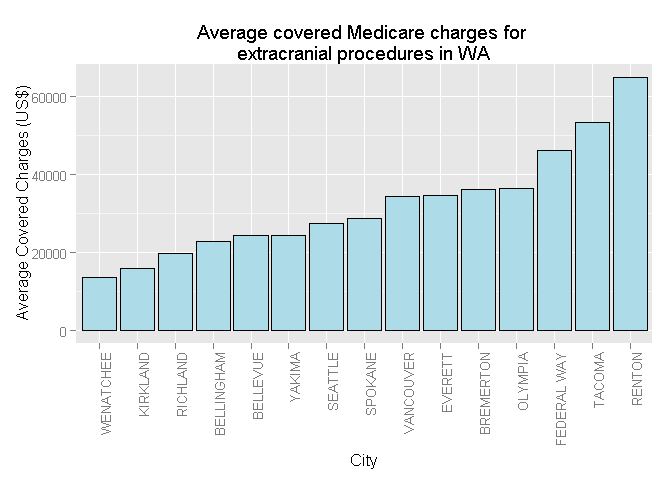
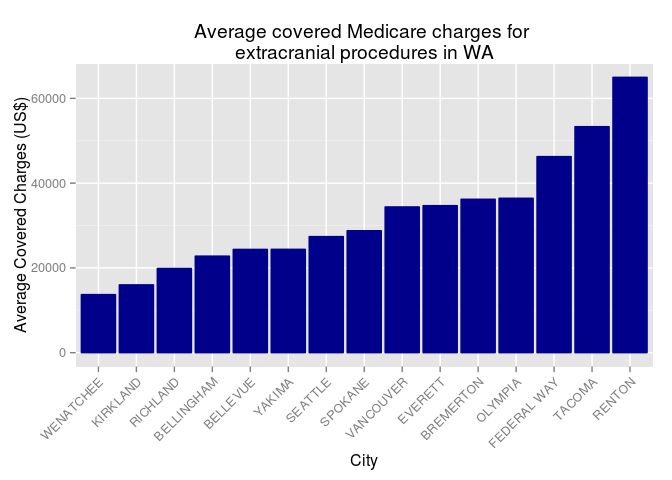
Modified plot to match data.cms.gov and also set knitr not to cache.

diff --git a/medicare-ipps-download.md b/medicare-ipps-download.md
@@ -67,7 +67,7 @@ invisible(suppressMessages(suppressWarnings(lapply(pkgs, require, character.only
 
 
 ```r
-opts_chunk$set(tidy=FALSE, cache=TRUE)
+opts_chunk$set(tidy=FALSE, cache=FALSE)
 ```
 
 Download the Data
@@ -267,8 +267,8 @@ Finally, create a bar plot with `ggplot`.
 
 ```r
 ggplot(ipps, aes(x=City, y=Average.Charge)) +
-    geom_bar(stat="identity", colour="black", fill="lightblue") +  
-    theme(axis.text.x = element_text(angle = 90, hjust = 1)) + 
+    geom_bar(stat="identity", colour="darkblue", fill="darkblue") +  
+    theme(axis.text.x = element_text(angle = 45, hjust = 1)) + 
     ggtitle("Average covered Medicare charges for \nextracranial procedures in WA") +
     labs(x="City", y="Average Covered Charges (US$)")
 ```

diff --git a/medicare-ipps.md b/medicare-ipps.md
@@ -84,7 +84,7 @@ invisible(suppressMessages(suppressWarnings(lapply(pkgs, require, character.only
 
 
 ```r
-opts_chunk$set(tidy=FALSE, cache=TRUE)
+opts_chunk$set(tidy=FALSE, cache=FALSE)
 ```
 
 Query Database
@@ -274,8 +274,8 @@ Finally, create a bar plot with `ggplot`.
 
 ```r
 ggplot(ipps, aes(x=City, y=Average.Charge)) +
-    geom_bar(stat="identity", colour="black", fill="lightblue") +  
-    theme(axis.text.x = element_text(angle = 90, hjust = 1)) + 
+    geom_bar(stat="identity", colour="darkblue", fill="darkblue") +  
+    theme(axis.text.x = element_text(angle = 45, hjust = 1)) + 
     ggtitle("Average covered Medicare charges for \nextracranial procedures in WA") +
     labs(x="City", y="Average Covered Charges (US$)")
 ```
